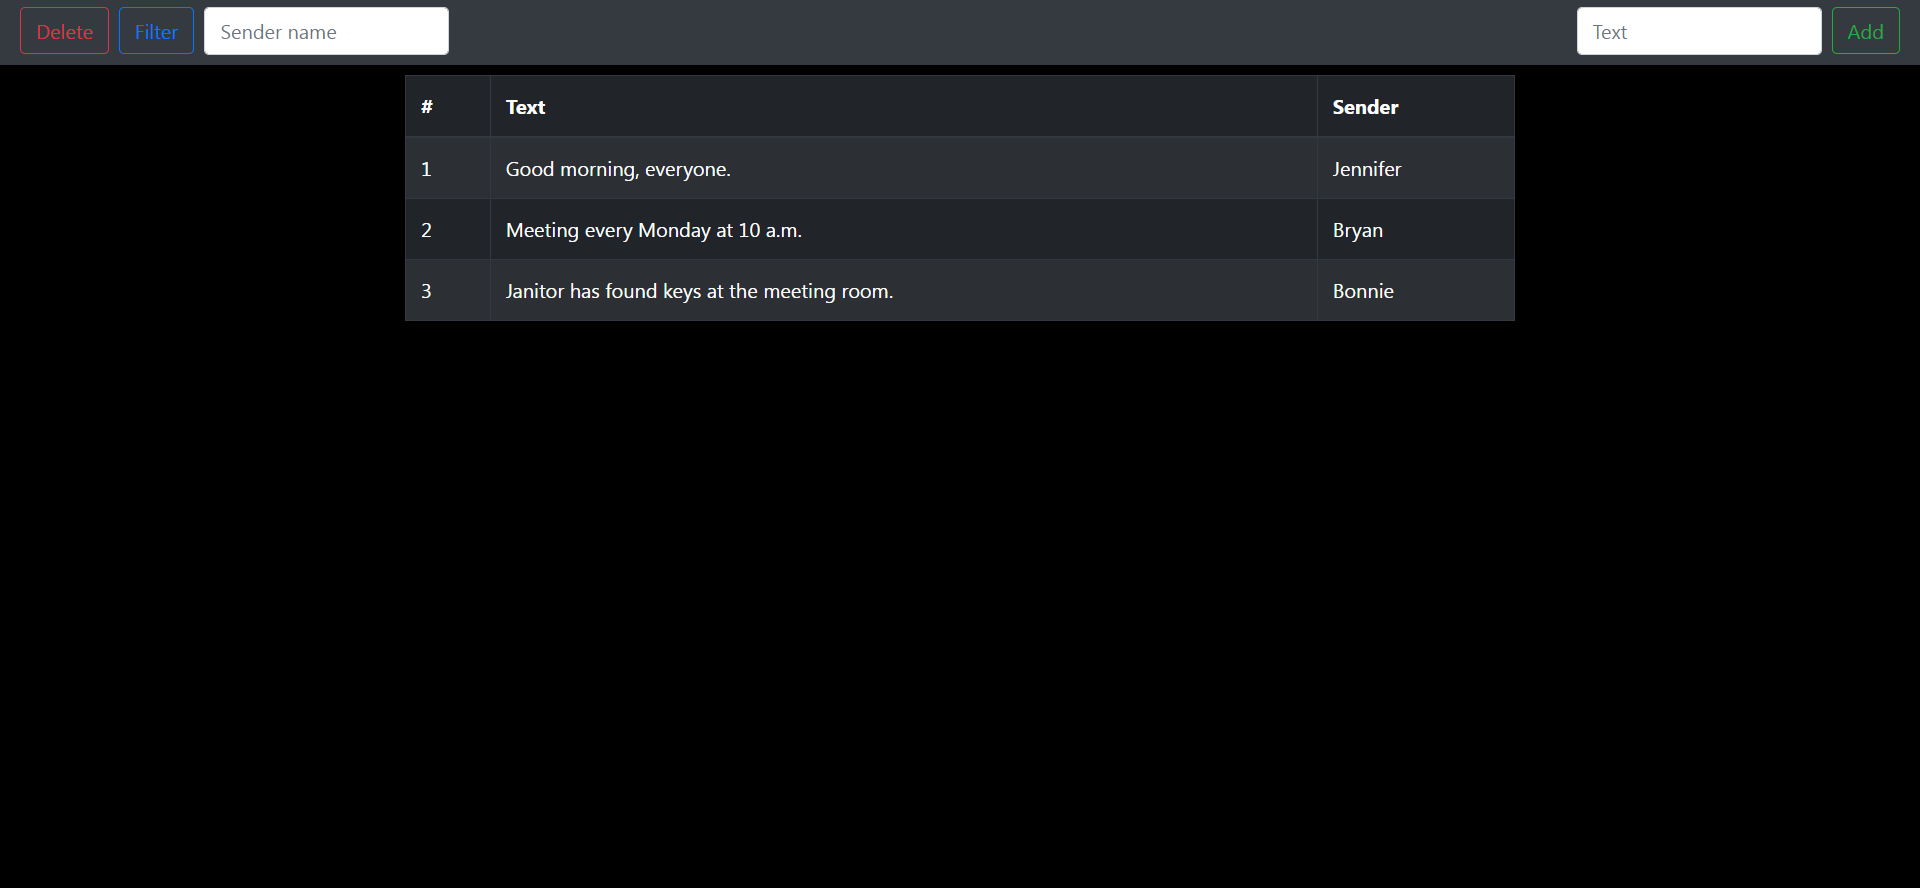
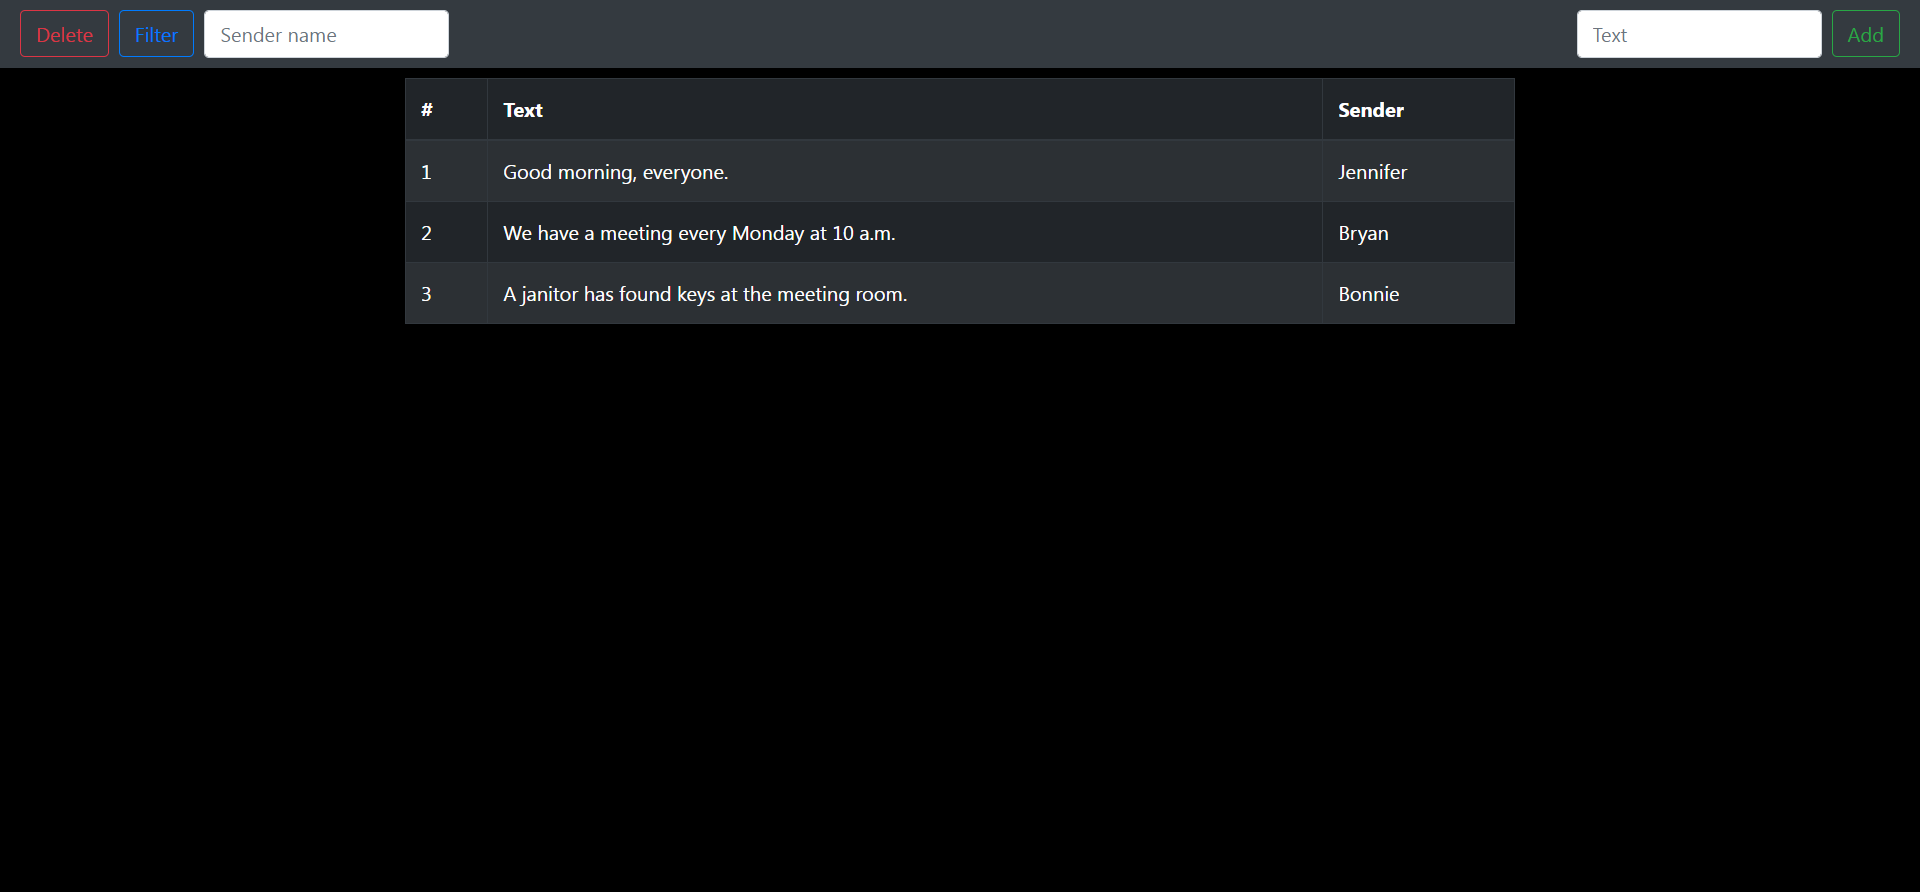
Some minor fixes

diff --git a/src/main/java/com/messageService/message/MessageConfig.java b/src/main/java/com/messageService/message/MessageConfig.java
@@ -14,8 +14,8 @@ public class MessageConfig {
         return args -> {
 
            Message one = new Message(1, "Good morning, everyone.", "Jennifer");
-           Message two = new Message(2, "Meeting every Monday at 10 a.m.", "Bryan");
-           Message three = new Message(3,"Janitor has found keys at the meeting room.", "Bonnie");
+           Message two = new Message(2, "We have a meeting every Monday at 10 a.m.", "Bryan");
+           Message three = new Message(3,"A janitor has found keys at the meeting room.", "Bonnie");
 
            repository.saveAll(List.of(one, two, three));
 
